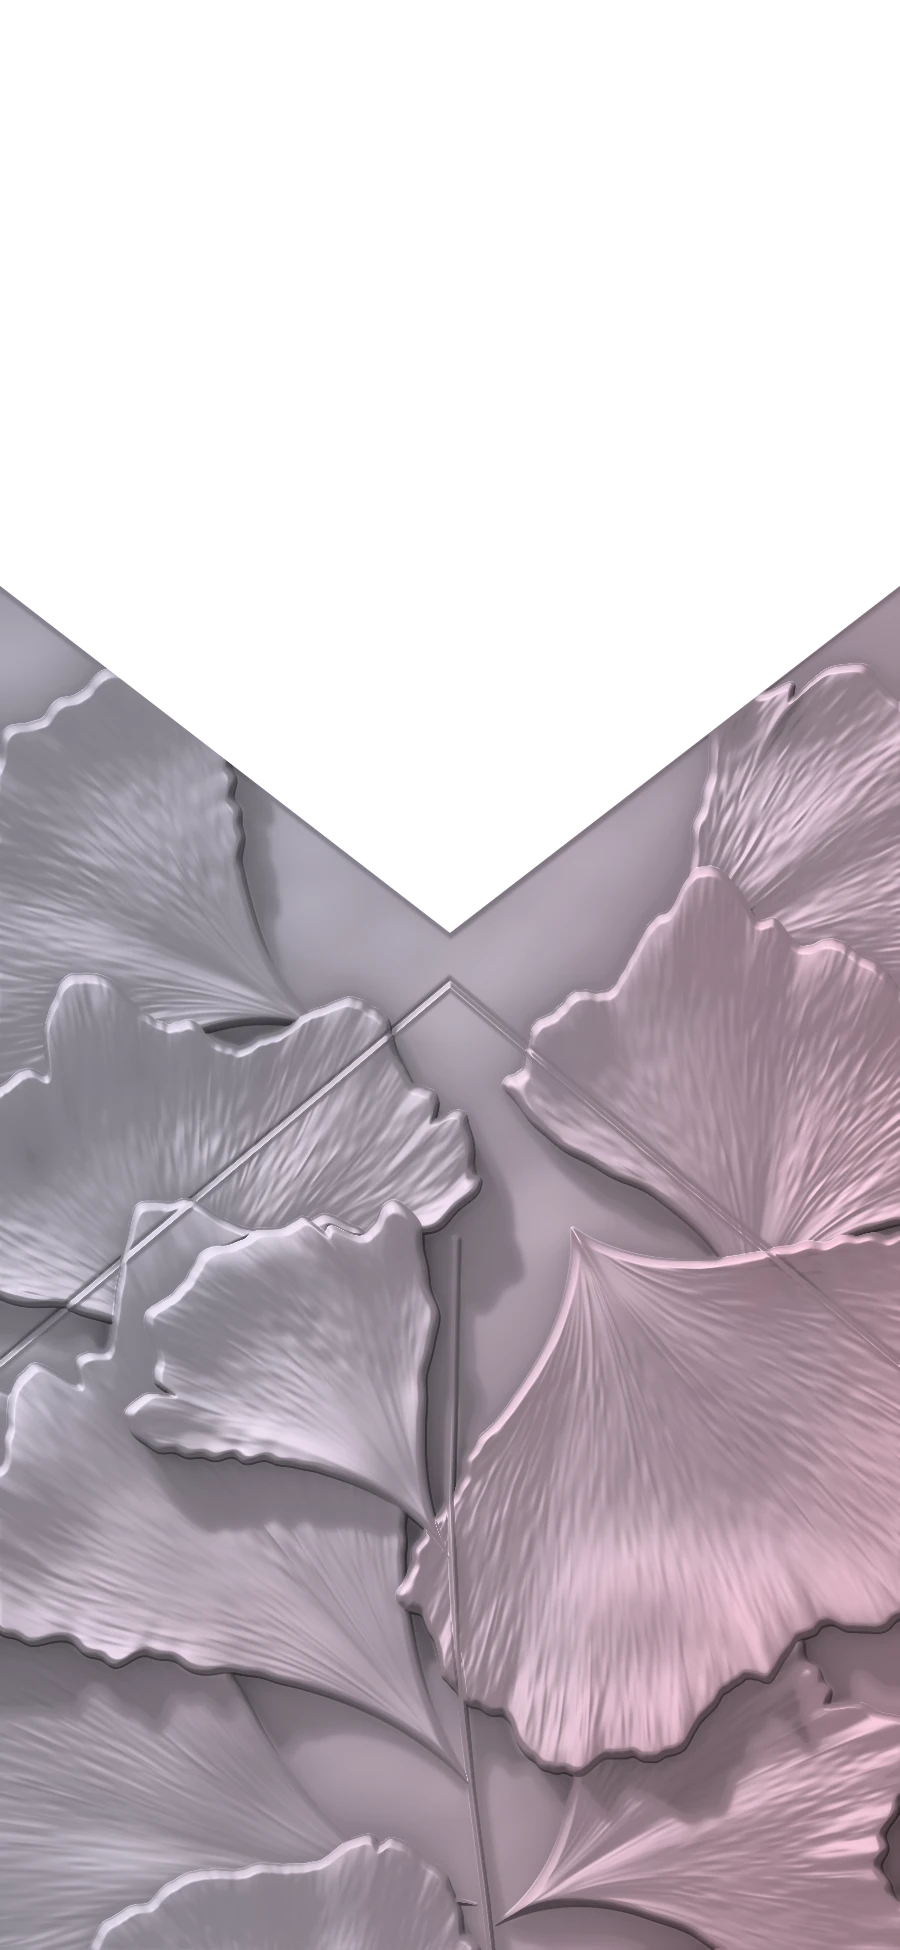
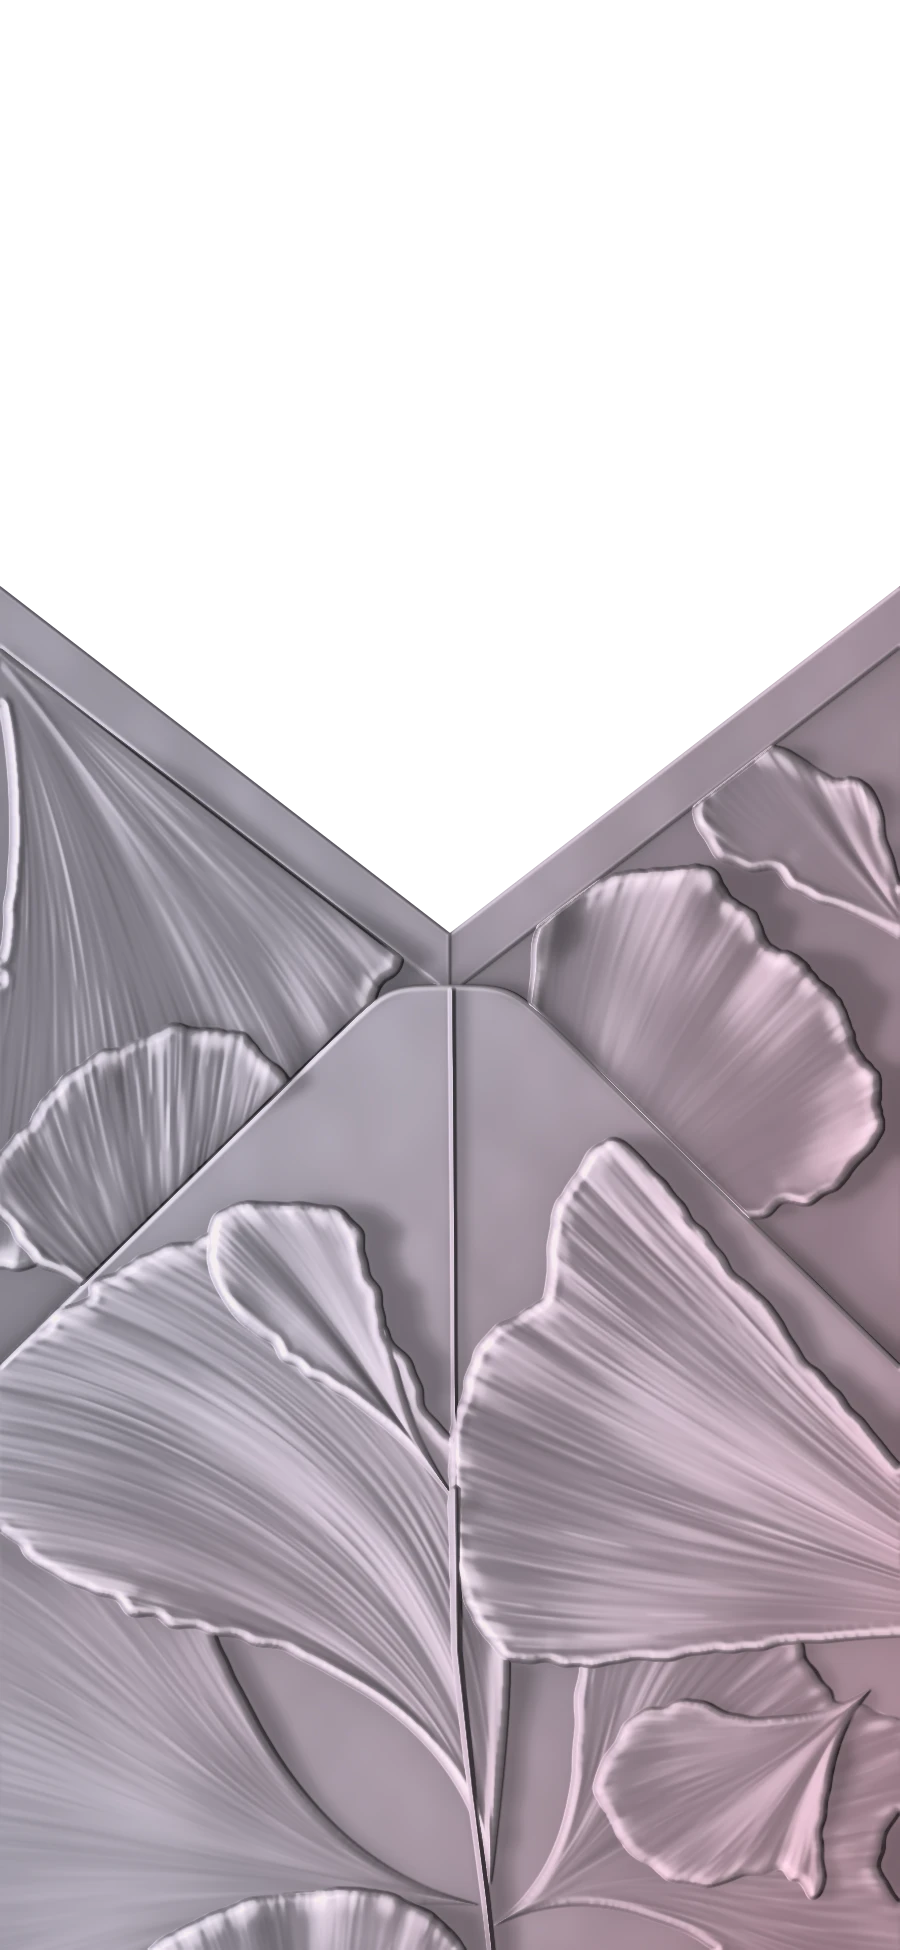
Website: envelope rebuilt as layered flaps with clear seams, traced leaves, seal sized to reference

diff --git a/Wedding Website/style.css b/Wedding Website/style.css
@@ -173,7 +173,7 @@ body.revealed .c-line:nth-child(8) { transition-delay: .24s; }
   background: url(assets/envelope-flap-shadow.webp) center / 100% 100% no-repeat; }
 .flap-face.back { background-image: url(assets/envelope-flap-back.webp); transform: rotateX(180deg); }
 .seal {
-  position: absolute; left: 50%; top: 51.3%; width: 40%; aspect-ratio: 600 / 660; transform: translate(-50%, -50%); z-index: 6;
+  position: absolute; left: 50%; top: 51.3%; width: 37.8%; aspect-ratio: 600 / 720; transform: translate(-50%, -50%); z-index: 6;
   background: url(assets/seal.webp) center / 100% 100% no-repeat; border: 0; border-radius: 46%; padding: 0; cursor: pointer;
   filter: drop-shadow(0 6px 7px rgba(38,22,34,.55)); transition: transform .25s ease;
   -webkit-tap-highlight-color: transparent; animation: sealGlow 2.8s ease-in-out infinite; transform-origin: 50% 50%;

diff --git a/Wedding Website/tools/ginkgo_env.py b/Wedding Website/tools/ginkgo_env.py
@@ -175,7 +175,7 @@ def leaf_fields(cx, cy, R=300, ang=-90, spread=55, seed=0, f0=0.15, flare=0.8, b
     comb = np.interp((np.clip(t, -1.25, 1.25) + 1.25) / 2.5 * (ncomb - 1), np.arange(ncomb), ctab).astype(np.float32)
     band = np.exp(-((dm - 10.0) / 10.0) ** 2) * smooth01(dm / 2.5)
     lip = np.exp(-((dm - 7.0) / 5.0) ** 2) * lipv                                         # the rolled lip just inside the edge
-    h = h + rim * ((1 - wm) * 3.6 * lip + wm * (1.8 * lip + 0.6 * band * comb))
+    h = h + rim * ((1 - wm) * 3.6 * lip + wm * (1.8 * lip + 0.35 * band * comb))
     h = h + cup * 6.0 * np.sin(math.pi * rc ** 0.85) * (0.7 + 0.3 * np.cos(1.7 * tcl + ph[0])) * smooth01(rc / 0.2)
     h = h - fold * 4.0 * np.exp(-(tcl / 0.16) ** 2) * smooth01((rc - 0.05) / 0.4)        # shallow valley on the axis
     for _i in range(int(rr.integers(2, 4))):                                              # broad soft radial folds
@@ -312,20 +312,21 @@ FLAP_SIDE_Y, FLAP_TIP_Y = 0.335, 0.535        # top flap: sides -> tip (hidden u
 POCKET_SIDE_Y, POCKET_TIP_Y = 0.300, 0.478    # top edge of the side flaps (the envelope mouth)
 BOT_SIDE_Y, BOT_TIP_Y = 0.700, 0.505          # bottom flap: sides -> apex (under the seal)
 
-SEAL_W = 0.40                                 # seal width / screen width (the CSS .seal rule)
+SEAL_W, SEAL_ASPECT = 0.378, 720 / 600      # seal width / screen width and height / width (the CSS .seal rule)
+#                                # seal width / screen width (the CSS .seal rule)
 BOT_FLAT = 62                                 # half-width of the blunt top of the bottom flap (a pentagon, as in the video)
 HEM = 50                                      # folded hem along the mouth of the side flaps (hidden while the top flap is shut)
 BOT_T, HEM_T = 8.0, 3.5                       # paper thickness of the bottom flap / the hem (design px)
 
 # leaves, bottom layer first (design px). `pts` = the leaf margin traced from the rectified reference video, lobe by lobe.
 SIDE_LEAVES = [                               # on the two side flaps (the bottom flap lies over their lower ends)
-    dict(cx=-20, cy=630, seed=100, tone=0.92, ruffle=0.8, f0=0.6, veins=1.1,
-         pts=[(420, 930), (370, 1000), (335, 1080), (285, 1160), (150, 1225), (-10, 1260)]),                 # L1 streaky, fills the left flap
-    dict(cx=905, cy=885, seed=113, tint=0.10, ruffle=1.2, veins=0.5, f0=0.3,
+    dict(cx=-20, cy=630, seed=100, tone=0.92, ruffle=0.8, f0=0.6, veins=0.55, bend=14, lumps=1.1, cup=0.7,
+         pts=[(420, 930), (370, 1000), (335, 1080), (285, 1160), (150, 1225), (-10, 1270), (-90, 1270)]),                 # L1 streaky, fills the left flap
+    dict(cx=930, cy=960, seed=113, tint=0.10, ruffle=1.2, veins=0.2, f0=0.5, cup=0.3, fold=0.2, lumps=0.9,
          pts=[(700, 845), (690, 800), (705, 762), (780, 748), (835, 772), (890, 790)]),                 # R1 small, upper right
     dict(cx=190, cy=1440, seed=102, tone=0.94, f0=0.2,
          pts=[(-25, 1200), (10, 1140), (60, 1080), (130, 1035), (230, 1030), (290, 1085), (335, 1160)]),   # L2 rising on the left
-    dict(cx=575, cy=1180, seed=112, tint=0.14, ruffle=1.3, veins=0.18, f0=0.3, curl=0.9, lumps=0.9, cup=0.3, fold=0.2,
+    dict(cx=520, cy=1330, seed=112, tint=0.14, ruffle=1.3, veins=0.18, f0=0.5, curl=0.9, lumps=0.9, cup=0.3, fold=0.2,
          pts=[(530, 960), (545, 895), (610, 868), (700, 872), (745, 905), (785, 955), (850, 1020), (878, 1080),
               (870, 1150), (840, 1200)]),                                                               # R0 soft, right of the seal
 ]
@@ -334,8 +335,8 @@ BOT_LEAVES = [                                # on the bottom flap
          thick=4.0, lumps=0.5),                                                                         # B6 faint folds, lower left
     dict(cx=300, cy=2210, seed=131, tone=0.96, ruffle=0.4, curl=0.6, veins=0.4, lumps=0.5,
          pts=[(110, 1975), (200, 1922), (260, 1898), (330, 1890), (400, 1897), (450, 1925), (490, 1975)]),   # B5 very bottom
-    dict(cx=495, cy=1925, R=430, ang=-30, spread=44, seed=132, tint=0.10, tone=0.92, veins=0.6, ruffle=0.5, thick=2.5, rim=0.5, curl=0.4),   # B4 lower right
-    dict(cx=870, cy=1690, seed=136, tint=0.12, veins=0.5, f0=0.3, tone=0.97, thick=2.5, rim=0.6, curl=0.4,
+    dict(cx=495, cy=1925, R=430, ang=-30, spread=44, seed=132, tint=0.10, tone=0.92, veins=0.5, ruffle=0.5, thick=2.5, rim=0.35, curl=0.4),   # B4 lower right
+    dict(cx=870, cy=1690, seed=136, tint=0.12, veins=0.5, f0=0.3, tone=0.98, thick=2.5, rim=0.4, curl=0.4,
          pts=[(640, 1700), (600, 1790), (615, 1840), (650, 1870), (700, 1888), (750, 1872), (800, 1880), (815, 1915)]),   # B4b
     dict(cx=490, cy=1885, seed=133, f0=0.3, flare=0.6, bend=-45, veins=0.65, ruffle=1.5,
          pts=[(100, 1592), (55, 1562), (5, 1520), (-30, 1440), (-10, 1370), (60, 1310), (150, 1255), (260, 1215)]),                                                               # B2 big left
@@ -351,7 +352,7 @@ FLAP_LEAVES = [
     dict(cx=462, cy=735, R=680, ang=-134, spread=60, seed=202, ruffle=0.7, tone=0.93, f0=0.45),    # F2 lower left
     dict(cx=486, cy=748, R=520, ang=-46, spread=48, seed=206, tint=0.06, f0=0.6, tone=0.74, rim=0.0, veins=0.5, thick=2.0),   # in the shade under F1
     dict(cx=492, cy=745, R=560, ang=-34, spread=42, seed=201, tint=0.06, f0=0.45),                 # F3 lower right
-    dict(cx=450, cy=1010, seed=204, f0=0.85, ruffle=0.5, curl=0.7, rim=0.3, tone=1.06, veins=0.35, lumps=0.5,
+    dict(cx=450, cy=1010, seed=204, f0=0.85, ruffle=0.5, curl=0.15, rim=0.5, tone=1.06, veins=0.15, lumps=0.5,
          pts=[(150, 770), (175, 712), (240, 722), (330, 700), (350, 712), (410, 740), (450, 765), (500, 762), (560, 800),
               (600, 860), (625, 920)]),                                                   # F4 smooth, over the tip
     dict(cx=470, cy=712, seed=203, f0=0.13, flare=0.85, fexp=1.6, stem=42, stem_bend=0.1, veins=1.35, ruffle=0.8,
@@ -516,7 +517,7 @@ def preview(out):
     comp *= ((1 - 0.38 * fs1) * (1 - 0.62 * fs))[..., None]      # = the CSS drop-shadows of the flap
     comp[:FH] = comp[:FH] * (1 - fa[..., None]) + frgb * fa[..., None]
     srgb, sa = build_seal()
-    sw = int(TW * SEAL_W); sh = int(sw * 660 / 600)
+    sw = int(TW * SEAL_W); sh = int(sw * SEAL_ASPECT)
     srgb = cv2.resize(srgb, (sw, sh), interpolation=cv2.INTER_AREA); sa = cv2.resize(sa, (sw, sh), interpolation=cv2.INTER_AREA)
     x0 = TW // 2 - sw // 2; y0 = int(TH * 0.513) - sh // 2
     sh_m = np.zeros((TH, TW), np.float32); sh_m[y0:y0 + sh, x0:x0 + sw] = sa
